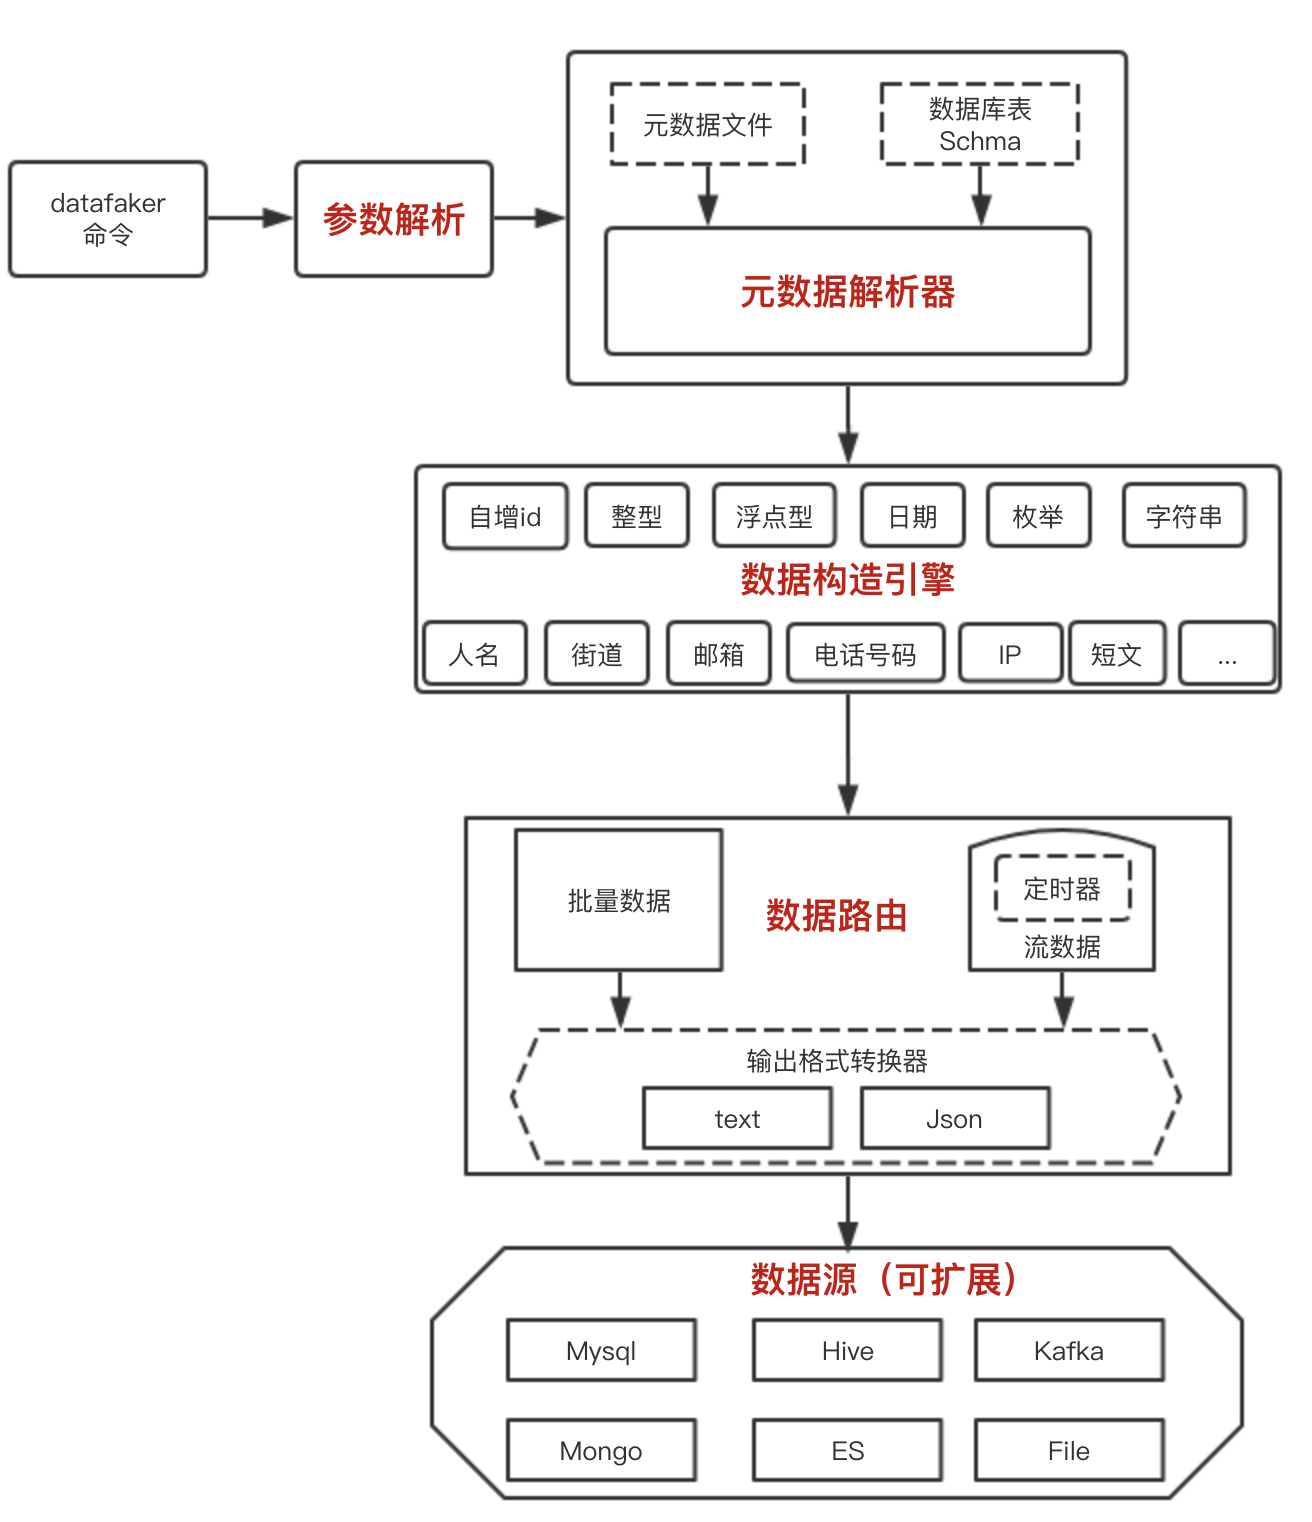
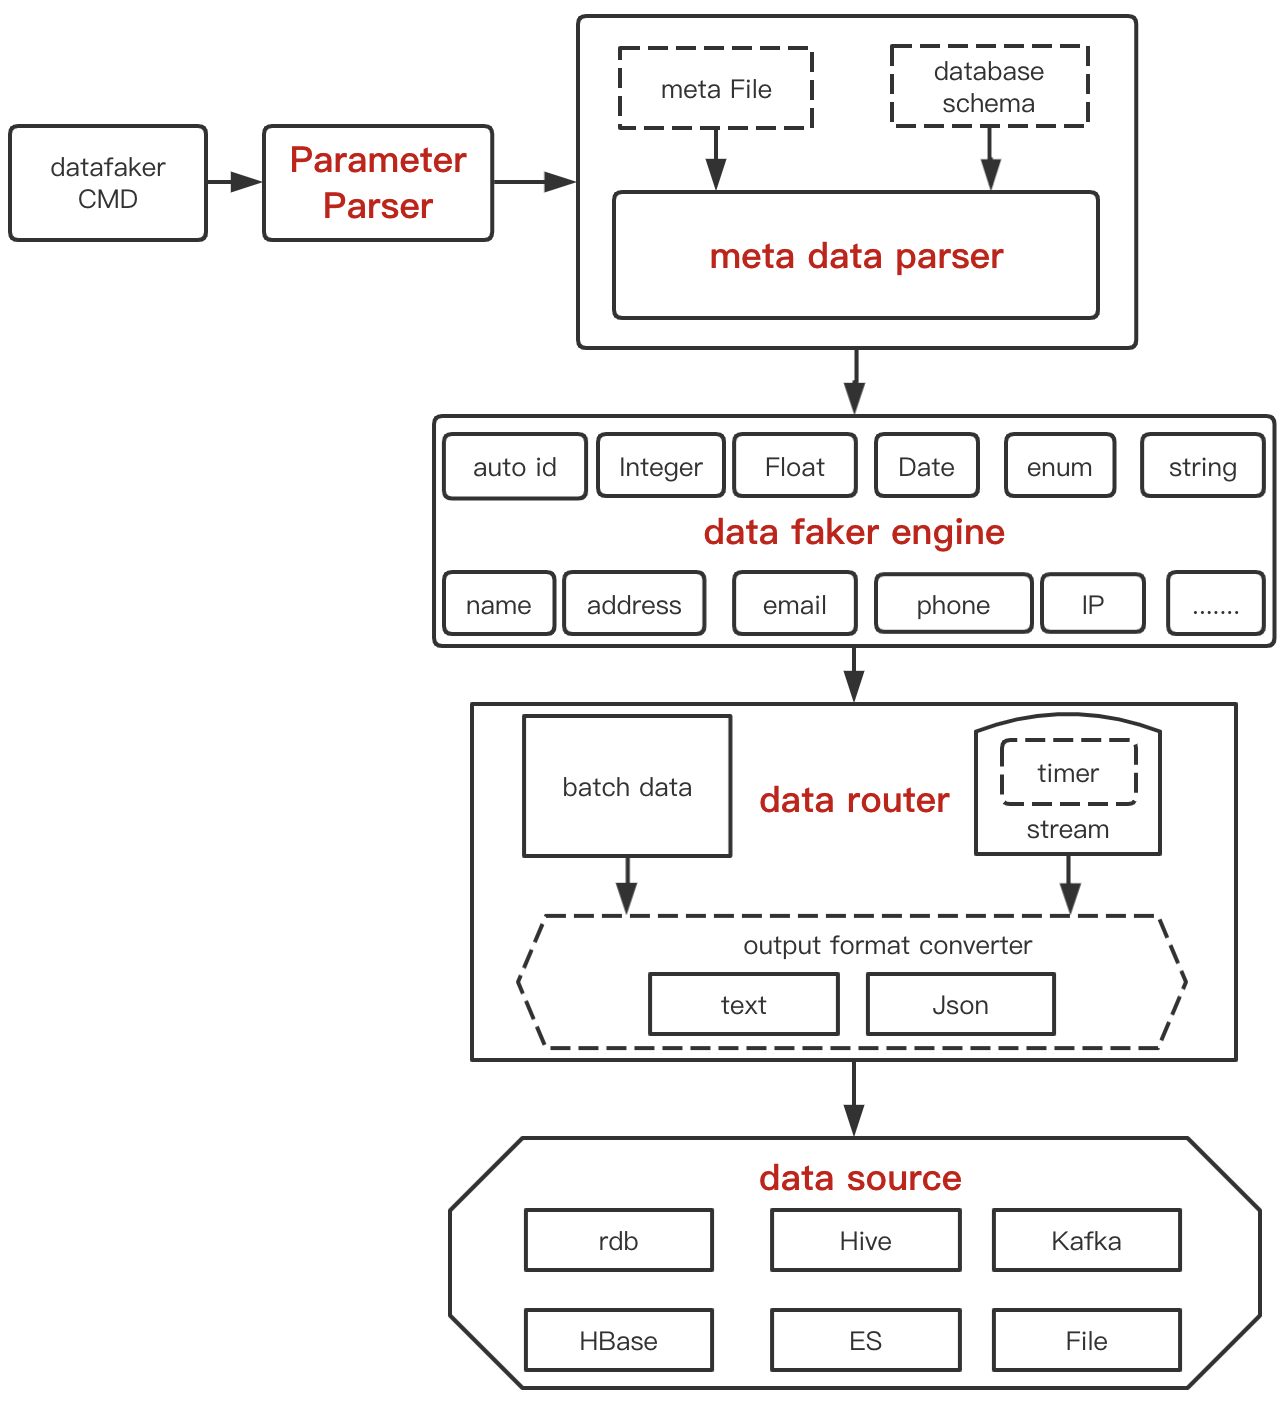
add: 增加英文说明

Changed region(s): [[0.0, 0.0, 0.9953, 0.9972]]

diff --git a/README.md b/README.md
@@ -121,7 +121,7 @@ pip uninstall datafaker
 _____
 
 **Give the author a star or donate a coffee**
-
+- 给作者点个star或请作者喝杯咖啡
 <div align=left><img
 src="https://github.com/gangly/datafaker/blob/master/doc/img/微信pay.png" width="200" height="200" alt="喝杯咖啡"/>
 </div>
